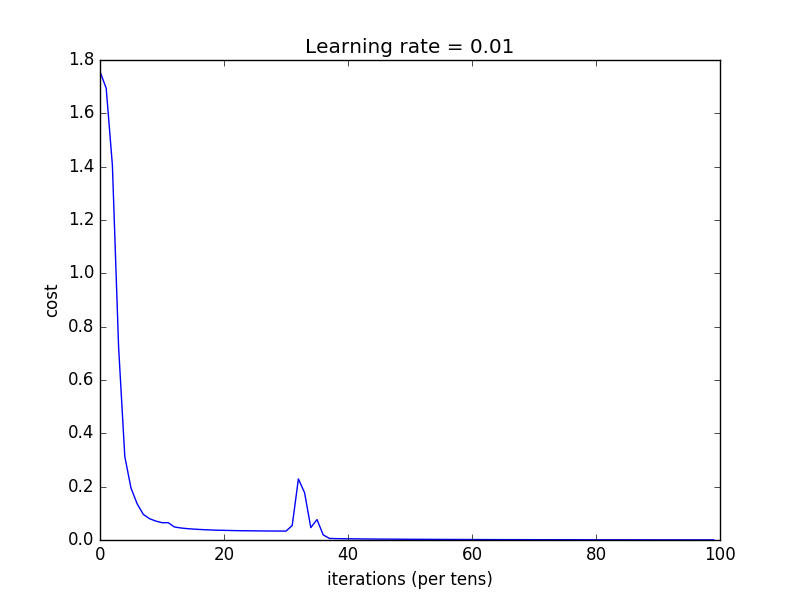
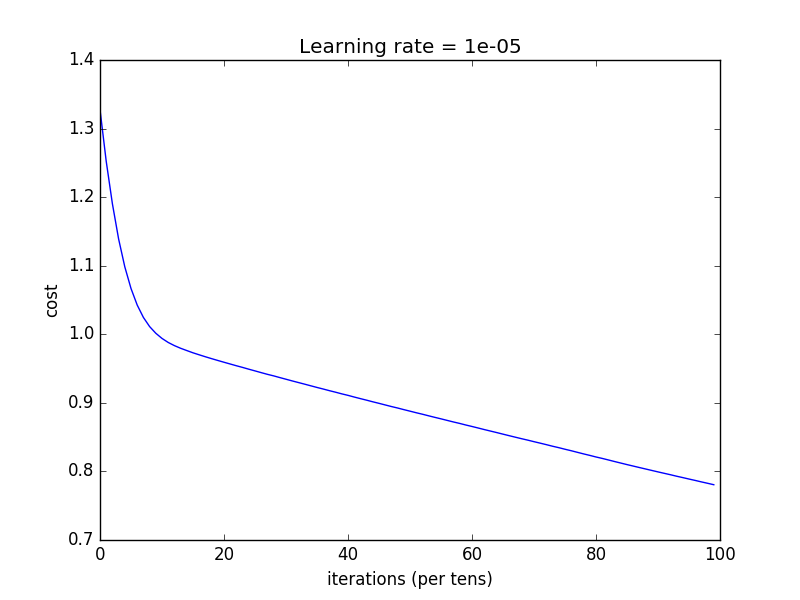
some data processing changes

diff --git a/gan.py b/gan.py
@@ -4,48 +4,74 @@ from discriminator import Discriminator
 from generator import Generator
 import pickle
 import numpy as np
+from nn_tools import random_mini_batches
 
 ID_FILENAME = 'id_to_word_OG.pkl'
 X_FILENAME = 'train_x_OG.pkl'
 Y_FILENAME = 'train_y_OG.pkl'
 
 #GENERATOR HYPERPARAMETERS
-EMB_DIM = 5
+EMB_DIM = 50
 G_HIDDEN_UNITS = 100        #Hidden state dimension of lstm cell
 SEQ_LENGTH = 30
 START_TOKEN = 0
 G_EPOCH_NUM = 5             #Pre-training epochs for G
 G_LEARNING_RATE = 1e-2
 G_PRE_BATCH_SIZE = 50
-G_PRE_SAMPLE_SIZE = 1000    #How many negative examples to pre-train D with
-G_ADV_SAMPLE_SIZE = 100     #How many samples to train D with during adversarial training
+G_PRE_SAMPLE_SIZE = 10000    #How many negative examples to pre-train D with
+G_ADV_SAMPLE_SIZE = 10000     #How many samples to train D with during adversarial training
 G_ADV_TEST_SIZE = 10        #How many samples to print every now and then
 VOCAB_SIZE = 5002
 
 #DISCRIMINATOR HYPERPARAMETERS
-D_FILTER_SIZES = [1, 2, 3, 5]
-D_NUM_FILTERS = [10, 20, 20, 20]
+D_FILTER_SIZES = [1, 2, 3, 4, 5]
+D_NUM_FILTERS = [10, 10, 20, 20, 20]
 D_EPOCH_NUM = 100
 D_BATCH_SIZE= 50
-D_LEARNING_RATE = 1e-2
+D_LEARNING_RATE = 1e-5
 D_HIDDEN_UNITS = 10
 D_ADV_BATCH_SIZE = 50
 
 TOTAL_BATCH = 5
 
-def split_data(X, Y):
+G_DATA_POINTER = 0
+D_DATA_POINTER = 0
+
+def shuffle_data(X, Y):
 	m = X.shape[0]
 	permutation = list(np.random.permutation(m))
-	X_p = X[permutation, :]
-	Y_p = Y[permutation, :]
+	return X[permutation, :], Y[permutation, :]
 
-	X_train = X_p[:1000]
-	X_test = X_p[1000:1100]
+def split_data(X, Y, start, train_size, test_size):
+	X_train = X[start:start+train_size]
+	X_test = X[start+train_size:start+train_size+test_size]
 
-	Y_train = Y_p[:1000]
-	Y_test = Y_p[1000:1100]
+	Y_train = Y[start:start+train_size]
+	Y_test = Y[start+train_size:start+train_size+test_size]
 
 	return X_train, X_test, Y_train, Y_test
+
+def print_samples(samples, id_to_word):
+    m, seq_length = samples.shape
+    for i in range(m):
+        sentence = []
+        for t in range(seq_length):
+            index = samples[i][t]
+            sentence.append(id_to_word[index])
+        print(' '.join(sentence))
+
+def gen_pos_batch(pos_samples, batch_size):
+    m = pos_samples.shape[0]
+    permutation = list(np.random.permutation(m))[:batch_size]
+    return pos_samples[permutation, :]
+
+def format_samples(pos_samples, neg_samples):
+    y_neg = np.tile(np.array([0,1]), (len(neg_samples), 1))
+    y_pos = np.tile(np.array([1,0]), (len(pos_samples), 1))
+
+    X = np.concatenate((neg_samples, pos_samples))
+    Y = np.concatenate((y_neg, y_pos))
+    return X, Y
 
 def get_reward(samples, rollout_num, D, G):
     rewards = []
@@ -71,28 +97,6 @@ def get_reward(samples, rollout_num, D, G):
 
     rewards = np.transpose(np.array(rewards)) / (1.0 * rollout_num)  # batch_size x seq_length
     return rewards
-
-def print_samples(samples, id_to_word):
-    m, seq_length = samples.shape
-    for i in range(m):
-        sentence = []
-        for t in range(seq_length):
-            index = samples[i][t]
-            sentence.append(id_to_word[index])
-        print(' '.join(sentence))
-
-def gen_pos_batch(pos_samples, batch_size):
-    m = pos_samples.shape[0]
-    permutation = list(np.random.permutation(m))[:batch_size]
-    return pos_samples[permutation, :]
-
-def format_samples(pos_samples, neg_samples):
-    y_neg = np.tile(np.array([0,1]), (len(neg_samples), 1))
-    y_pos = np.tile(np.array([1,0]), (len(pos_samples), 1))
-
-    X_train = np.concatenate((neg_samples, pos_samples))
-    Y_train = np.concatenate((y_neg, y_pos))
-    return X_train, Y_train
 
 def main():
 
@@ -126,22 +130,20 @@ def main():
 
     G = Generator(G_hparams)
     D = Discriminator(D_hparams)
+    X = pickle.load(open(X_FILENAME, 'rb'))
+    Y = pickle.load(open(Y_FILENAME, 'rb'))
 
-    G_X = pickle.load(open(X_FILENAME, 'rb'))
-
-    D_X = pickle.load(open(X_FILENAME, 'rb'))
-    D_Y = pickle.load(open(Y_FILENAME, 'rb'))
-
+    D_X, D_Y = shuffle_data(X, Y)
+    G_X = D_X
+    X_pos = X[:288136]
 
 	#################################################################################
 	# 								PRE-TRAINING 									#
 	#################################################################################
 
-    G_X_train, G_X_test, G_Y_train, G_Y_test = split_data(G_X, G_X)
+    G_X_train, G_X_test, G_Y_train, G_Y_test = split_data(G_X, G_X, 0, 1000, 100)
     G_Y_train = G.one_hot(G_Y_train)
     G_Y_test = G.one_hot(G_Y_test)
-
-    D_pos = D_X[:G_PRE_SAMPLE_SIZE]
 
     print("Started pre-training G.")
     G.build_graph()
@@ -149,8 +151,8 @@ def main():
     print("Finished training G. Started pre-training D.")
 
     samples = G.sess.run(G.gen_examples, feed_dict={G.sample_size: G_PRE_SAMPLE_SIZE})
-    D_X_train, D_Y_train = format_samples(D_pos, samples)
-    D_X_train, D_X_test, D_Y_train, D_Y_test = split_data(D_X_train, D_Y_train) #USING GENERATOR DATA AS FAKE
+    D_X_train, D_Y_train = format_samples(X_pos[:G_PRE_SAMPLE_SIZE], samples)
+    D_X_train, D_X_test, D_Y_train, D_Y_test = split_data(D_X_train, D_Y_train, 0, 2*G_PRE_SAMPLE_SIZE-200, 200) #USING GENERATOR DATA AS FAKE
     # D_X_train, D_X_test, D_Y_train, D_Y_test = split_data(D_X, D_Y)           #USING YELP LABALED DATA AS FAKE
 
     D.build_graph()
@@ -164,7 +166,7 @@ def main():
 	#Define Policy Gradient and RL loss (for generator)
     #Update D hyperparameters for adversarial training
     G_loss, G_update = G.adv_loss, G.pg_update
-    D.num_epochs = 3
+    D.num_epochs = 5
     D.minibatch_size = D_ADV_BATCH_SIZE
 
     print("Started adversarial training")
@@ -191,21 +193,21 @@ def main():
         Y_train_full = []
         for k in range(5):
             samples = G.sess.run(G.gen_examples, feed_dict={G.sample_size: G_ADV_SAMPLE_SIZE})
-            pos = gen_pos_batch(D_pos, G_ADV_SAMPLE_SIZE)
+            pos = gen_pos_batch(X_pos, G_ADV_SAMPLE_SIZE)
             X_train, Y_train = format_samples(pos, samples)
 
-            loss += D.train(X_train, Y_train, None, None, restart=False, report=False)
+            loss += 1./5 * D.train(X_train, Y_train, None, None, restart=False, report=False)
             X_train_full.append(X_train)
             Y_train_full.append(Y_train)
 
         test_samples = G.sess.run(G.gen_examples, feed_dict={G.sample_size: G_ADV_SAMPLE_SIZE})
-        pos = gen_pos_batch(D_pos, G_ADV_SAMPLE_SIZE)
+        pos = gen_pos_batch(X_pos, G_ADV_SAMPLE_SIZE)
         X_test, Y_test = format_samples(pos, samples)
         X_train_full = np.concatenate(X_train_full)
         Y_train_full = np.concatenate(Y_train_full)
         D_train_acc, D_test_acc = D.report_accuracy(X_train_full, Y_train_full, X_test, Y_test)
 
-        D_losses.append(loss / 5)
+        D_losses.append(loss)
         print "Done training D. D's Loss: %s" % str(loss)
 
     plt.subplot(1,2,1)

diff --git a/discriminator.py b/discriminator.py
@@ -44,15 +44,6 @@ class Discriminator:
         self.accuracy = tf.reduce_mean(tf.cast(self.correct_prediction, tf.float32))
 
     def train(self, X_train, Y_train, X_test, Y_test, restart=True, report=False):
-        # if restart:
-        #     ops.reset_default_graph()
-        #     self.initialize_parameters()
-        #     self.Z4 = self.forward_propagation()
-        #     self.cost = self.compute_cost()
-        #     self.optimizer = tf.train.AdamOptimizer(learning_rate=self.learning_rate).minimize(self.cost)
-        #     self.init = tf.global_variables_initializer()
-        #     self.sess = tf.Session()
-
         costs = []
         seed = 1
         m = X_train.shape[0]
